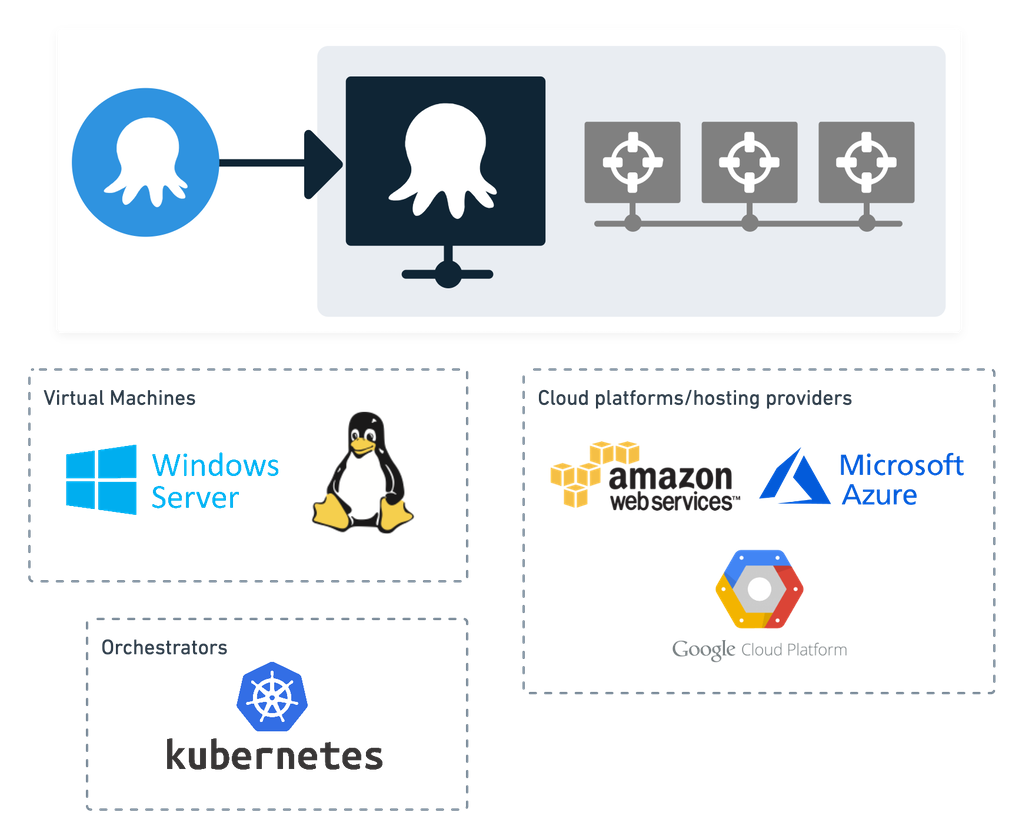
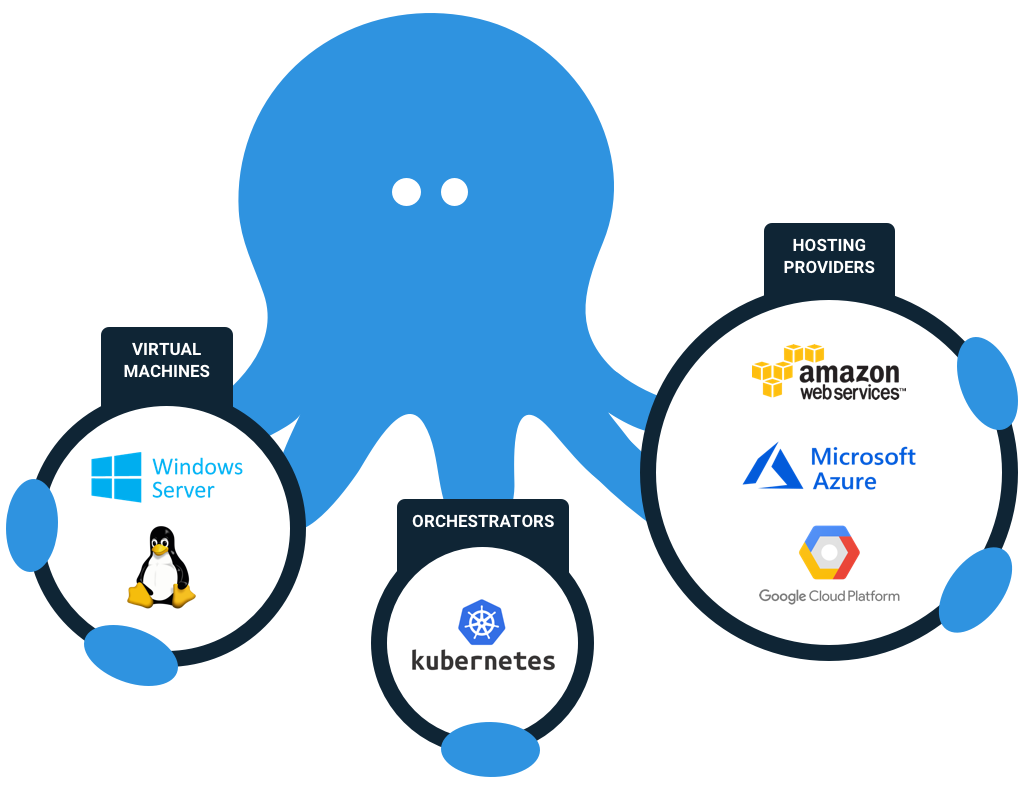
Added updated diagram.

diff --git a/blog/2020-09/tame-the-kraken-protect-your-data/index.md b/blog/2020-09/tame-the-kraken-protect-your-data/index.md
@@ -42,6 +42,8 @@ Octopus Deploy gets its name because its architecture resembles that of an octop
 
 Octopus users can interact with the server through the Octopus Web Portal or with scripts, typically using PowerShell, a [REST API](https://octopus.com/blog/change-advisory-boards-dont-work) or the [Octopus CLI](https://octopus.com/docs/octopus-rest-api/octopus-cli).
  
+![Octopus Diagram](octopusdiagram.png "width=500")
+
 There are various types of [deployment targets](https://octopus.com/docs/infrastructure/deployment-targets). The most common is an Octopus “Tentacle” (or Agent), which is a service that runs on a target Machine. For example, on a server, VM, or container, etc. Tentacles can run on [Windows](https://octopus.com/docs/infrastructure/deployment-targets/windows-targets) or [Linux](https://octopus.com/docs/infrastructure/deployment-targets/linux/tentacle) on your own infrastructure or your preferred cloud provider.
 
 The communication between the Octopus Server and Tentacle uses a secure TLS connection on a specific port, using public-key cryptography. [More detail available here](https://octopus.com/docs/security/octopus-tentacle-communication). This avoids the need to use passwords. As long as the private keys are kept safe, it should be impossible for another system to impersonate either the Server or Tentacle.
